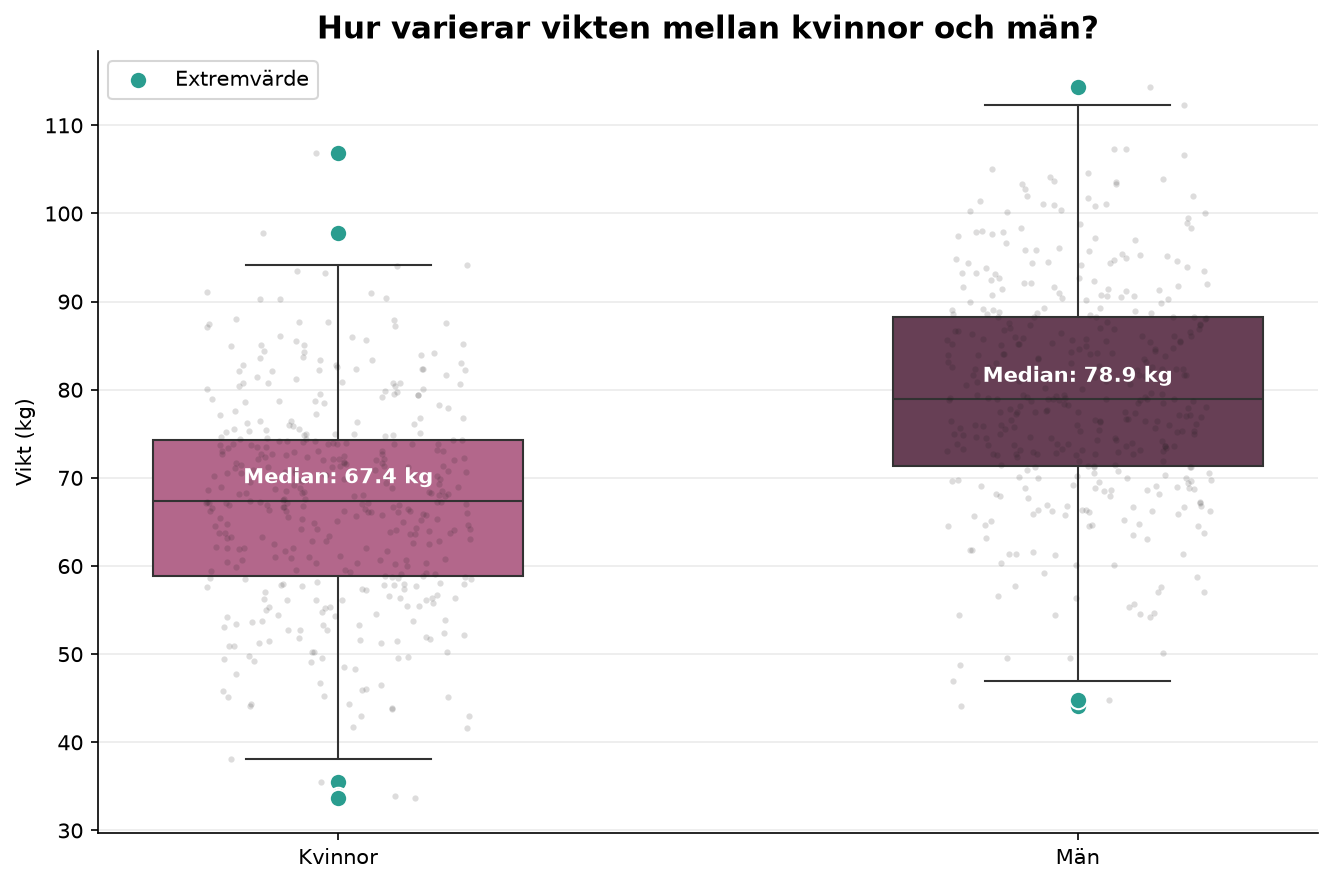
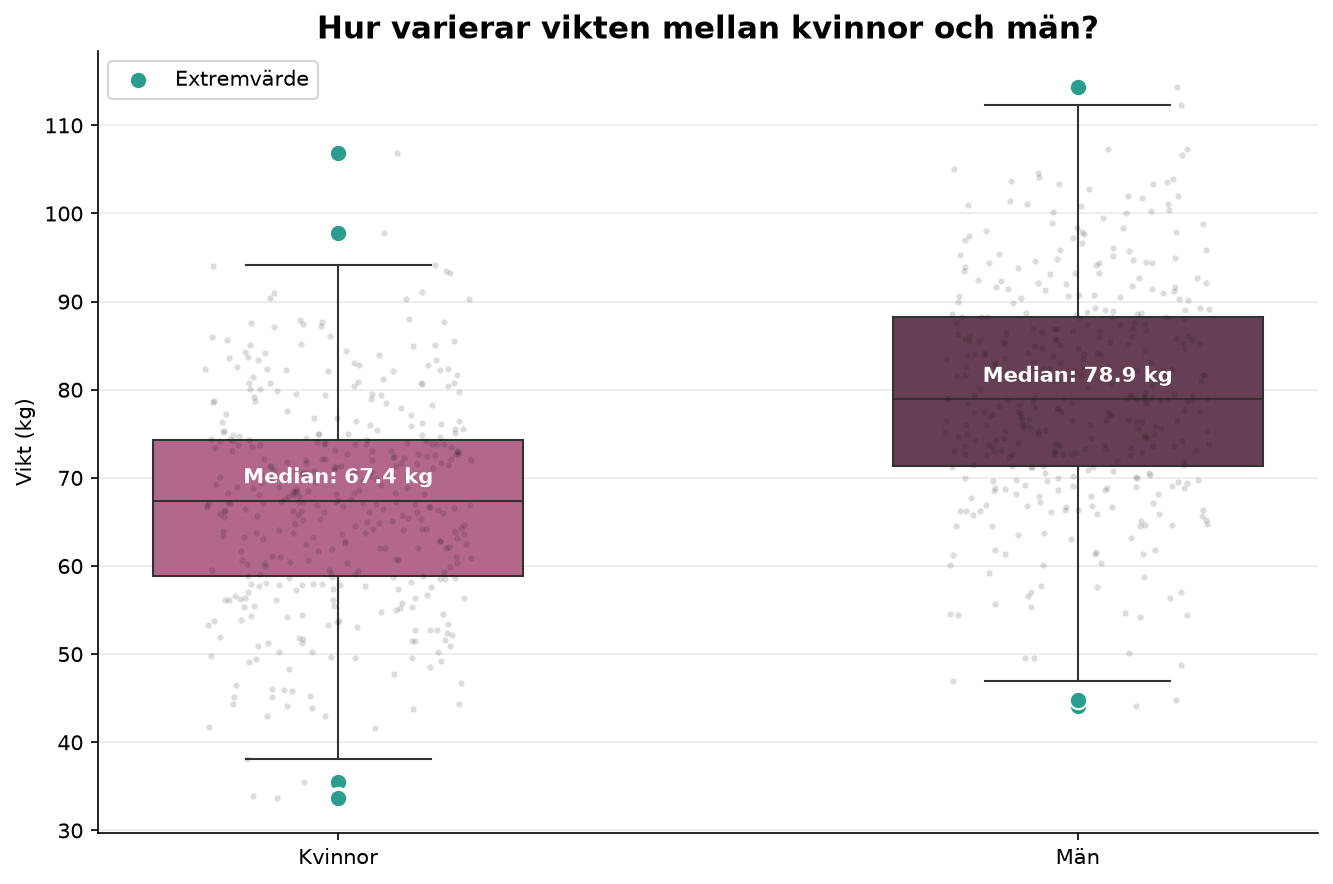
Lägg till requirements.txt och python-version i README

diff --git a/README.md b/README.md
@@ -21,3 +21,9 @@ Diagrammet visar att 73,4 % röker inte och 26,6 röker.
 Testet når 80 % power först vid en skillnad på 3,0 mmHg.
 
 
+## Miljö
+Projektet använder Python 3.14.7.
+Installera beroendena från projektets huvudmapp med:
+
+```bash
+python -m pip install -r requirements.txt
